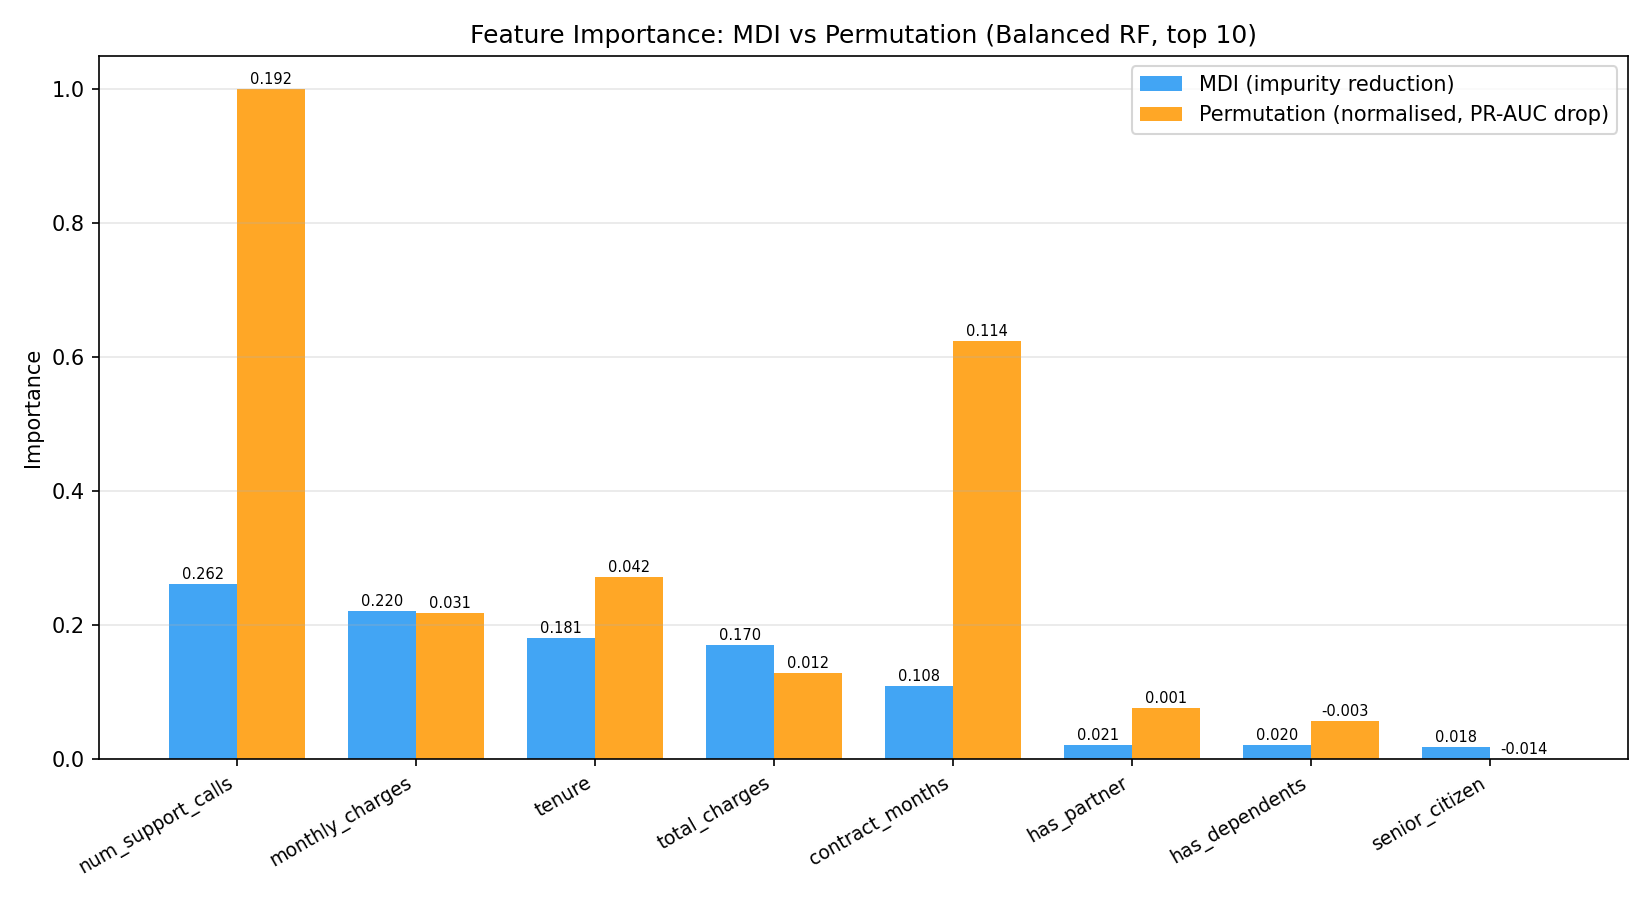
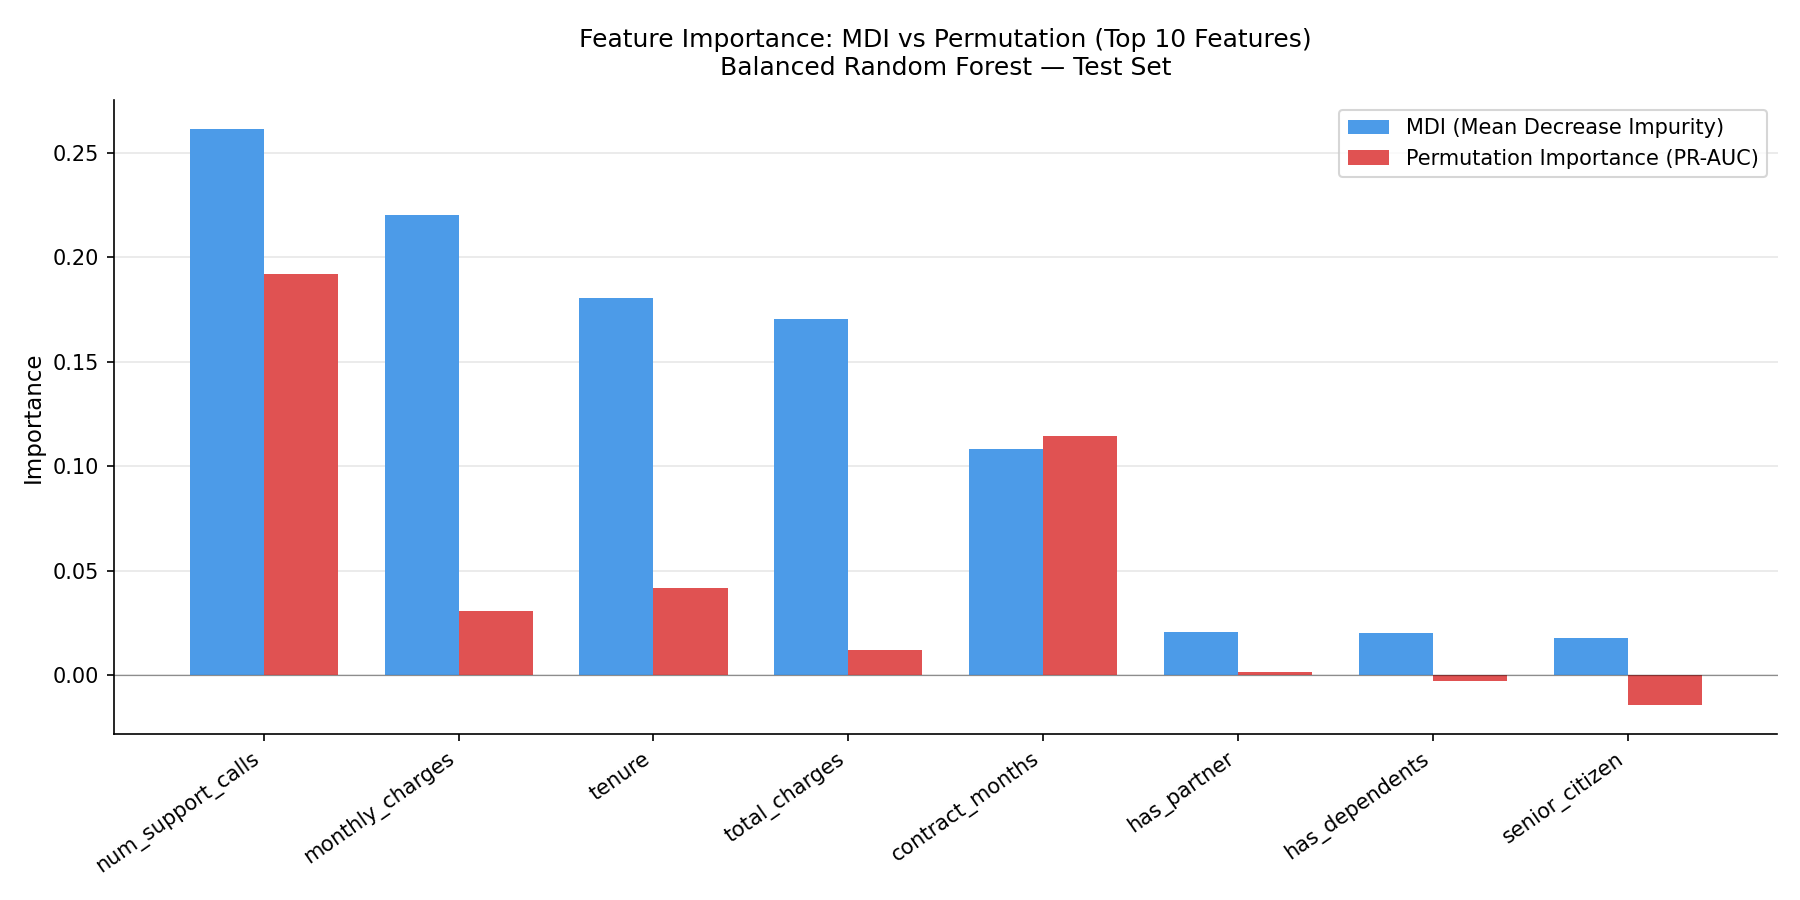
Fix code

diff --git a/challenglab5.py b/challenglab5.py
@@ -325,11 +325,11 @@ def threshold_sweep(model, X_test, y_test, output_path,
     # Mark recall >= 0.80 threshold
     if recall80_threshold is not None:
         ax.axvline(recall80_threshold, color="#FF9800", linestyle=":", linewidth=1.2,
-                   label=f"Recall ≥ 0.80 threshold = {recall80_threshold:.2f}")
+                   label=f"Recall \u2265 0.80 threshold = {recall80_threshold:.2f}")
 
     ax.set_xlabel("Decision Threshold")
     ax.set_ylabel("Score")
-    ax.set_title("Threshold Sweep — Balanced RF (Precision / Recall / F1)")
+    ax.set_title("Threshold Sweep \u2014 Balanced RF (Precision / Recall / F1)")
     ax.set_xlim(0.05, 0.95)
     ax.set_ylim(0.0, 1.05)
     ax.legend(loc="upper right", fontsize=8)
@@ -339,8 +339,8 @@ def threshold_sweep(model, X_test, y_test, output_path,
     note = (
         "Petra Telecom capacity: 200 contacts/month.\n"
         f"Recommended threshold: {best_f1_threshold:.2f} (maximises F1).\n"
-        "Lower threshold → more false positives (wasted calls).\n"
-        "Higher threshold → more false negatives (lost customers)."
+        "Lower threshold \u2192 more false positives (wasted calls).\n"
+        "Higher threshold \u2192 more false negatives (lost customers)."
     )
     ax.text(0.98, 0.35, note, transform=ax.transAxes, fontsize=7.5,
             verticalalignment="top", horizontalalignment="right",
@@ -402,37 +402,35 @@ def plot_permutation_vs_mdi(rf_model, X_test, y_test, feature_names,
     top10 = sorted(mdi, key=mdi.get, reverse=True)[:10]
 
     mdi_vals  = np.array([mdi[f]  for f in top10])
-    perm_vals = np.array([perm[f] for f in top10])
-
-    # Normalise permutation to [0,1] for visual comparability with MDI
-    perm_min   = perm_vals.min()
-    perm_range = perm_vals.max() - perm_min
-    perm_norm  = (perm_vals - perm_min) / perm_range if perm_range > 0 else perm_vals.copy()
+    perm_vals = np.array([perm[f] for f in top10])   # raw values, no normalisation
 
     # --- Side-by-side bar chart ---
     x     = np.arange(len(top10))
     width = 0.38
 
-    fig, ax = plt.subplots(figsize=(11, 6))
-    bars_mdi  = ax.bar(x - width / 2, mdi_vals,  width,
-                       label="MDI (impurity reduction)", color="#2196F3", alpha=0.85)
-    bars_perm = ax.bar(x + width / 2, perm_norm, width,
-                       label="Permutation (normalised, PR-AUC drop)",
-                       color="#FF9800", alpha=0.85)
+    fig, ax = plt.subplots(figsize=(12, 6))
+
+    ax.bar(x - width / 2, mdi_vals,  width,
+           label="MDI (Mean Decrease Impurity)",
+           color="#4C9BE8", edgecolor="none")
+    ax.bar(x + width / 2, perm_vals, width,
+           label="Permutation Importance (PR-AUC)",
+           color="#E05252", edgecolor="none")
 
     ax.set_xticks(x)
-    ax.set_xticklabels(top10, rotation=30, ha="right", fontsize=9)
-    ax.set_ylabel("Importance")
-    ax.set_title("Feature Importance: MDI vs Permutation (Balanced RF, top 10)")
-    ax.legend()
-    ax.grid(axis="y", alpha=0.3)
-
-    for bar in bars_mdi:
-        ax.text(bar.get_x() + bar.get_width() / 2, bar.get_height() + 0.003,
-                f"{bar.get_height():.3f}", ha="center", va="bottom", fontsize=7)
-    for bar, raw in zip(bars_perm, perm_vals):
-        ax.text(bar.get_x() + bar.get_width() / 2, bar.get_height() + 0.003,
-                f"{raw:.3f}", ha="center", va="bottom", fontsize=7)
+    ax.set_xticklabels(top10, rotation=35, ha="right", fontsize=10)
+    ax.set_ylabel("Importance", fontsize=11)
+    ax.set_title(
+        "Feature Importance: MDI vs Permutation (Top 10 Features)\n"
+        "Balanced Random Forest \u2014 Test Set",
+        fontsize=12,
+        pad=12,
+    )
+    ax.legend(loc="upper right", fontsize=10, frameon=True)
+    ax.grid(axis="y", alpha=0.3, linewidth=0.8)
+    ax.spines[["top", "right"]].set_visible(False)
+    ax.set_axisbelow(True)
+    ax.axhline(0, color="black", linewidth=0.6, alpha=0.4)
 
     plt.tight_layout()
     os.makedirs(os.path.dirname(output_path) or ".", exist_ok=True)
@@ -652,15 +650,15 @@ def main():
         sweep = threshold_sweep(rf_bal, X_test, y_test, "results/threshold_sweep.png")
         print(f"\n--- Tier 1: Threshold Sweep (balanced RF) ---")
         print(f"  Best F1 threshold      : {sweep['best_f1_threshold']:.2f}  (F1={sweep['best_f1']:.3f})")
-        print(f"  Recall ≥ 0.80 threshold: {sweep['recall80_threshold']}")
+        print(f"  Recall \u2265 0.80 threshold: {sweep['recall80_threshold']}")
         print(f"  Saved: results/threshold_sweep.png")
         print(
             f"\n  Recommendation (200 contacts/month):\n"
-            f"  Use threshold={sweep['best_f1_threshold']:.2f} to maximise F1 — it balances\n"
+            f"  Use threshold={sweep['best_f1_threshold']:.2f} to maximise F1 \u2014 it balances\n"
             f"  the cost of false positives (wasted retention calls) against\n"
             f"  the opportunity cost of false negatives (churners not contacted).\n"
             f"  If churn prevention revenue >> call cost, lower to "
-            f"{sweep['recall80_threshold']} to capture ≥80% of churners,\n"
+            f"{sweep['recall80_threshold']} to capture \u226580% of churners,\n"
             f"  accepting more wasted contacts within the 200-call budget."
         )
 
@@ -700,7 +698,7 @@ def main():
         print(
             "\n  When/why they disagree:\n"
             "  MDI counts how often a feature is used for splits weighted by\n"
-            "  impurity reduction — it inflates continuous high-cardinality\n"
+            "  impurity reduction \u2014 it inflates continuous high-cardinality\n"
             "  features (e.g. total_charges, tenure) because they offer more\n"
             "  candidate split points. Permutation importance shuffles one\n"
             "  feature at a time on held-out data and measures the drop in\n"
@@ -755,7 +753,7 @@ def main():
               f"({'better' if ens_eval['pr_auc'] > max(lr_pr_auc, dt_pr_auc, rf_pr_auc) else 'not better'} than best individual)")
         print(
             "\n  When to expect ensemble gains:\n"
-            "  Ensembling improves when models make uncorrelated errors —\n"
+            "  Ensembling improves when models make uncorrelated errors \u2014\n"
             "  the LR is a linear boundary while the RF captures interactions,\n"
             "  so they can complement each other on different regions of the\n"
             "  feature space. If one model dominates (RF here), the ensemble\n"
